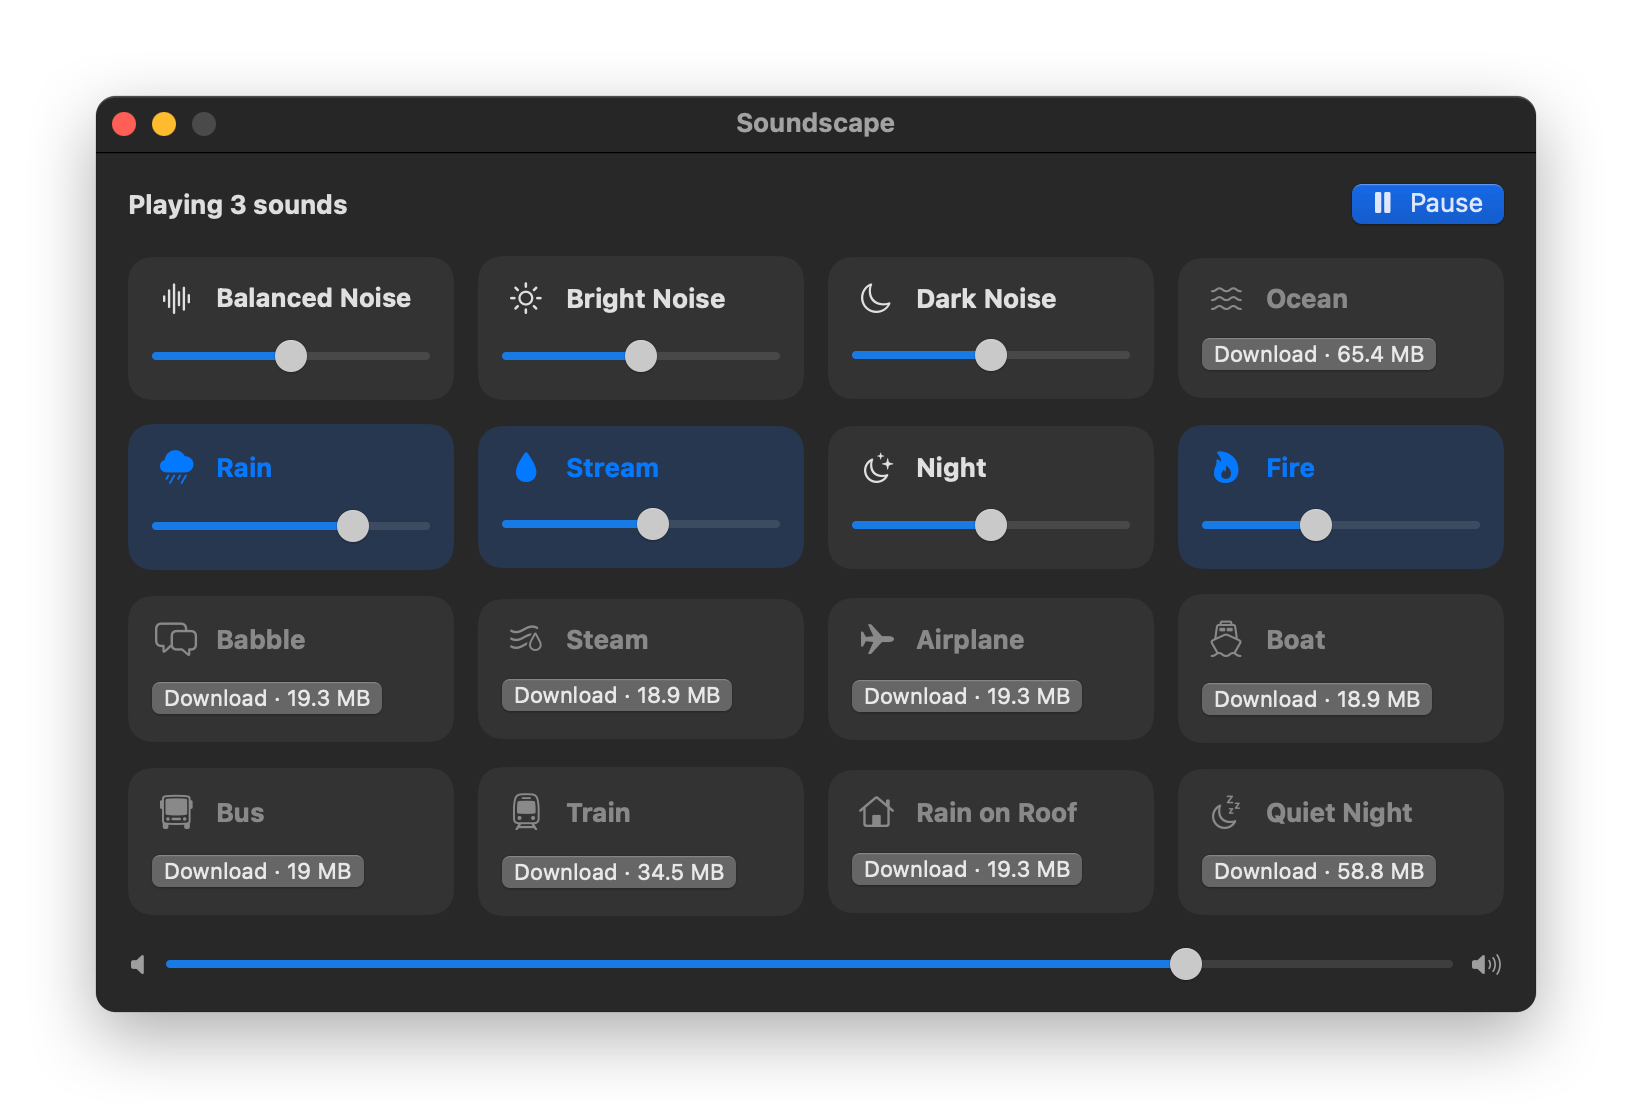
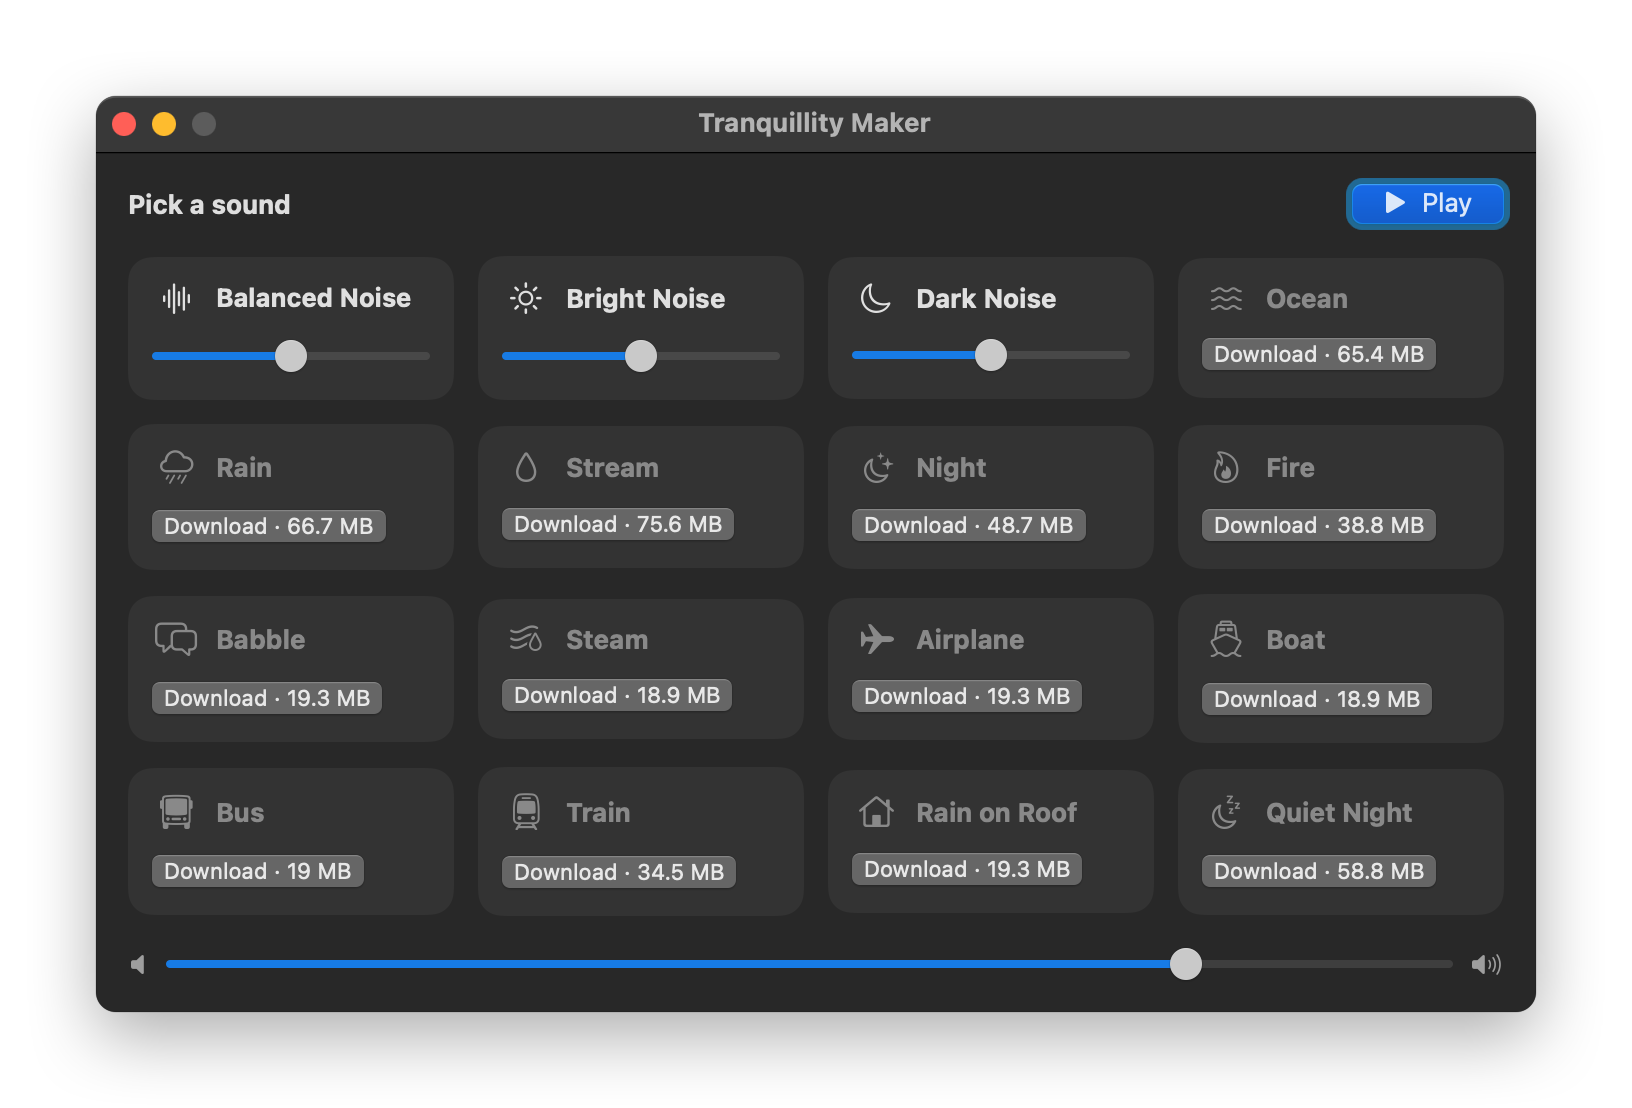
Rename the app to Tranquillity Maker

diff --git a/Soundscape/SoundscapeApp.swift b/Soundscape/SoundscapeApp.swift
@@ -5,11 +5,11 @@ struct SoundscapeApp: App {
   @State private var mixer = Mixer()
 
   init() {
-    AppUpdater.shared.start(repository: "flaviocopes/soundscape")
+    AppUpdater.shared.start(repository: "flaviocopes/tranquillity-maker")
   }
 
   var body: some Scene {
-    Window("Soundscape", id: "mixer") {
+    Window("Tranquillity Maker", id: "mixer") {
       MixerView()
         .frame(width: 720)
         .environment(mixer)
@@ -17,7 +17,7 @@ struct SoundscapeApp: App {
     .windowResizability(.contentSize)
     .commands {
       CommandGroup(replacing: .appInfo) {
-        Button("About Soundscape") {
+        Button("About Tranquillity Maker") {
           NSApp.orderFrontStandardAboutPanel(options: [.credits: credits])
         }
         Button("Check for Updates…") {
@@ -40,10 +40,10 @@ struct SoundscapeApp: App {
     paragraph.alignment = .center
     return NSAttributedString(
       string: """
-        Soundscape includes no audio. It plays the Background Sounds that come with macOS. \
+        Tranquillity Maker includes no audio. It plays the Background Sounds that come with macOS. \
         They belong to Apple and are covered by the macOS Software License Agreement.
 
-        Soundscape isn't affiliated with Apple.
+        Tranquillity Maker isn't affiliated with Apple.
         """,
       attributes: [
         .font: NSFont.systemFont(ofSize: NSFont.smallSystemFontSize),

diff --git a/scripts/render-banner.swift b/scripts/render-banner.swift
@@ -7,7 +7,7 @@
 import AppKit
 import SwiftUI
 
-let name = "Soundscape"
+let name = "Tranquillity Maker"
 let tagline = "Mix the Background Sounds\nbuilt into your Mac."
 let chips = ["16 sounds", "Menu bar", "Gapless loops"]
 let size = CGSize(width: 1280, height: 560)
@@ -108,7 +108,7 @@ struct Banner: View {
           .frame(width: 132, height: 132)
           .shadow(color: .black.opacity(0.35), radius: 18, y: 10)
         Text(name)
-          .font(.system(size: 76, weight: .bold))
+          .font(.system(size: 42, weight: .bold))
           .tracking(-1.8)
           .foregroundStyle(.white)
           .padding(.top, 26)

diff --git a/scripts/screenshot.swift b/scripts/screenshot.swift
@@ -1,4 +1,4 @@
-// Captures the real Soundscape window for the README, in light and dark.
+// Captures the real Tranquillity Maker window for the README, in light and dark.
 // scripts/screenshot.sh compiles it with the app's sources, in place of SoundscapeApp.swift.
 
 import AppKit
@@ -22,7 +22,7 @@ enum Screenshot {
       backing: .buffered,
       defer: false
     )
-    window.title = "Soundscape"
+    window.title = "Tranquillity Maker"
     window.contentView = host
     window.center()
     _ = NotificationCenter.default.addObserver(forName: NSApplication.didFinishLaunchingNotification, object: nil, queue: .main) { _ in

diff --git a/Soundscape/Mixer.swift b/Soundscape/Mixer.swift
@@ -143,7 +143,7 @@ final class Mixer {
     let center = MPNowPlayingInfoCenter.default()
     center.nowPlayingInfo = [
       MPMediaItemPropertyTitle: mix.map(\.sound.name).formatted(.list(type: .and)),
-      MPMediaItemPropertyArtist: "Soundscape",
+      MPMediaItemPropertyArtist: "Tranquillity Maker",
       MPNowPlayingInfoPropertyIsLiveStream: true,
     ]
     center.playbackState = isPlaying ? .playing : .paused

diff --git a/SoundscapeTV/TVMixerView.swift b/SoundscapeTV/TVMixerView.swift
@@ -7,7 +7,7 @@ struct TVMixerView: View {
     VStack(alignment: .leading, spacing: 40) {
       HStack(alignment: .center) {
         VStack(alignment: .leading, spacing: 8) {
-          Text("Soundscape")
+          Text("Tranquillity Maker")
             .font(.title3.bold())
           HStack(spacing: 0) {
             Text(status)

diff --git a/Soundscape/MixerView.swift b/Soundscape/MixerView.swift
@@ -138,7 +138,7 @@ struct MenuBarContent: View {
           NSApp.activate()
         }
         Spacer()
-        Button("Quit Soundscape") {
+        Button("Quit Tranquillity Maker") {
           NSApp.terminate(nil)
         }
       }

diff --git a/SoundscapeiOS/SoundscapeiOSApp.swift b/SoundscapeiOS/SoundscapeiOSApp.swift
@@ -10,7 +10,7 @@ struct SoundscapeiOSApp: App {
         ScrollView {
           MixerView()
         }
-        .navigationTitle("Soundscape")
+        .navigationTitle("Tranquillity Maker")
       }
       .environment(mixer)
     }

diff --git a/README.md b/README.md
@@ -1,22 +1,22 @@
-<img src="docs/banner.png" alt="Soundscape, a mixer for the Background Sounds built into your Mac" />
+<img src="docs/banner.png" alt="Tranquillity Maker, a mixer for the Background Sounds built into your Mac" />
 
-Soundscape mixes the Background Sounds built into macOS. Turn on Rain, Fire and Night together, give each one its own volume, and control the mix from the menu bar. It runs on [iPhone and iPad](#iphone-and-ipad) too, and there's an experimental [Apple TV version](#apple-tv).
+Tranquillity Maker mixes the Background Sounds built into macOS. Turn on Rain, Fire and Night together, give each one its own volume, and control the mix from the menu bar. It runs on [iPhone and iPad](#iphone-and-ipad) too, and there's an experimental [Apple TV version](#apple-tv).
 
-Apple makes 16 of these sounds, from Balanced Noise to Rain on Roof, but macOS plays only one at a time. Soundscape plays as many as you want and loops each one without a gap.
+Apple makes 16 of these sounds, from Balanced Noise to Rain on Roof, but macOS plays only one at a time. Tranquillity Maker plays as many as you want and loops each one without a gap.
 
-Read the announcement and watch the 30-second demo on my blog: [I built Soundscape, a mixer for the Background Sounds on your Mac](https://flaviocopes.com/soundscape/).
+Read the announcement and watch the 30-second demo on my blog: [I built Tranquillity Maker, a mixer for the Background Sounds on your Mac](https://flaviocopes.com/tranquillity-maker/).
 
-[![Watch the 30-second Soundscape demo](docs/showreel-poster.jpg)](https://flaviocopes.com/soundscape/)
+[![Watch the 30-second Tranquillity Maker demo](docs/showreel-poster.jpg)](https://flaviocopes.com/tranquillity-maker/)
 
 ## Download
 
-Get `Soundscape-1.4.0.zip` from the [latest release](https://github.com/flaviocopes/soundscape/releases/latest), unzip it, and drag Soundscape to your Applications folder. It runs on macOS 15 Sequoia or later, on Apple silicon and Intel Macs.
+Get `Tranquillity Maker-1.5.0.zip` from the [latest release](https://github.com/flaviocopes/tranquillity-maker/releases/latest), unzip it, and drag Tranquillity Maker to your Applications folder. It runs on macOS 15 Sequoia or later, on Apple silicon and Intel Macs.
 
 ### Opening it the first time
 
-Soundscape is signed with my Apple Developer ID and notarized by Apple. The first time you open it, macOS asks if you're sure you want to open an app downloaded from the internet. Click **Open**.
+Tranquillity Maker is signed with my Apple Developer ID and notarized by Apple. The first time you open it, macOS asks if you're sure you want to open an app downloaded from the internet. Click **Open**.
 
-On a work laptop you might not be able to install apps in `/Applications`. You can keep Soundscape in the `Applications` folder inside your home folder instead.
+On a work laptop you might not be able to install apps in `/Applications`. You can keep Tranquillity Maker in the `Applications` folder inside your home folder instead.
 
 ## Features
 
@@ -26,7 +26,7 @@ On a work laptop you might not be able to install apps in `/Applications`. You c
 - Sounds fade in when you turn them on and fade out when you turn them off
 - The whole mixer in a menu bar panel, with an icon that fills in while something plays
 - **Play** brings back your last mix, and `Space` does the same while the window or the panel is open
-- The play/pause key on the keyboard pauses and resumes the mix from any app, as long as Soundscape is the app that played last
+- The play/pause key on the keyboard pauses and resumes the mix from any app, as long as Tranquillity Maker is the app that played last
 - Sounds your Mac doesn't have yet show their size and download from Apple with one click
 - Your mix and volumes are remembered between launches
 - Updates from inside the app: it checks GitHub once a day, and **Install and Relaunch** puts the new version in place
@@ -35,14 +35,14 @@ On a work laptop you might not be able to install apps in `/Applications`. You c
 
 <picture>
   <source media="(prefers-color-scheme: dark)" srcset="docs/screenshot-dark.png" />
-  <img src="docs/screenshot-light.png" alt="The Soundscape window playing Rain, Stream and Fire" />
+  <img src="docs/screenshot-light.png" alt="The Tranquillity Maker window with a separate volume for each sound" />
 </picture>
 
 ## iPhone and iPad
 
 The iPhone and iPad app has the same screen as the Mac window: tap a sound's name to turn it on, set its volume with its slider, and download the sounds you don't have yet with one tap. The mix keeps playing when you lock the screen, and the lock screen and Control Center show it with a play/pause button. A call or Siri pauses it, and **Play** brings it back.
 
-<img src="docs/screenshot-iphone.png" width="276" alt="Soundscape on an iPhone, with the sounds in two columns" />
+<img src="docs/screenshot-iphone.png" width="276" alt="Tranquillity Maker on an iPhone, with the sounds in two columns" />
 
 It isn't on the App Store, so you install it from Xcode:
 
@@ -63,7 +63,7 @@ It has the same 16 sounds and the same gapless crossfades as the Mac app:
 - The remote's play/pause button pauses and resumes the mix, in the app and from the home screen.
 - The mix keeps playing when you go back to the home screen or the screensaver starts.
 
-<img src="docs/screenshot-tv.png" alt="Soundscape on the Apple TV, with the 16 sounds in a grid" />
+<img src="docs/screenshot-tv.png" alt="Tranquillity Maker on the Apple TV, with the 16 sounds in a grid" />
 
 The Apple TV can't install apps from a zip, and the App Store doesn't take apps that play Apple's sounds. So you install it from Xcode on your own Apple TV, which takes a few minutes the first time:
 
@@ -76,7 +76,7 @@ It needs tvOS 18 or later and an Apple Developer account. With a paid account, t
 
 ## Where the sounds come from
 
-Soundscape doesn't include any audio. It plays the same files macOS uses for Background Sounds:
+Tranquillity Maker doesn't include any audio. It plays the same files macOS uses for Background Sounds:
 
 - Sounds your Mac already has play right away, from `/System/Library/AssetsV2/com_apple_MobileAsset_ComfortSoundsAssets`.
 - The others download from Apple's servers when you click **Download**, into `~/Library/Application Support/Soundscape/Sounds`. Delete that folder to remove them.
@@ -87,15 +87,15 @@ The files come straight from Apple to your device. They never go through a serve
 
 ## Privacy
 
-Soundscape goes online in three cases:
+Tranquillity Maker goes online in three cases:
 
 - At launch, it reads Apple's list of Background Sounds from `mesu.apple.com`, so the sounds added in newer macOS versions show up.
 - When you click **Download**, it downloads that sound from Apple.
-- Once a day, it asks GitHub whether there's a newer version of Soundscape. It downloads one only when you click **Install and Relaunch**.
+- Once a day, it asks GitHub whether there's a newer version of Tranquillity Maker. It downloads one only when you click **Install and Relaunch**.
 
 There are no accounts, and nothing about you or your mix leaves your Mac. The iPhone, iPad and Apple TV versions do the first two and never check for updates.
 
-To turn off the daily check, run this in Terminal. **Soundscape → Check for Updates…** still works.
+To turn off the daily check, run this in Terminal. **Tranquillity Maker → Check for Updates…** still works.
 
 ```bash
 defaults write com.flaviocopes.soundscape AppUpdaterAutomaticChecks -bool false
@@ -111,13 +111,9 @@ Open `Soundscape.xcodeproj` and press `⌘R`. To build the release zip from the 
 scripts/build-release.sh
 ```
 
-It builds a universal app in `build/release/Release/Soundscape.app` and zips it into `dist/`. With my Developer ID certificate in the keychain it signs and notarizes the app. Everywhere else it signs it ad hoc, so your copy is signed ad hoc. A copy you build yourself opens without a warning on your Mac.
+It builds a universal app in `build/release/Release/Tranquillity Maker.app` and zips it into `dist/`. With my Developer ID certificate in the keychain it signs and notarizes the app. Everywhere else it signs it ad hoc, so your copy is signed ad hoc. A copy you build yourself opens without a warning on your Mac.
 
-If you send it to another Mac, macOS says it "could not verify Soundscape is free of malware". Click **Done**, then go to **System Settings → Privacy & Security** and click **Open Anyway**, or remove the quarantine flag in Terminal:
-
-```sh
-xattr -dr com.apple.quarantine /Applications/Soundscape.app
-```
+If you send it to another Mac, macOS says it "could not verify Tranquillity Maker is free of malware". Click **Done**, then go to **System Settings → Privacy & Security** and click **Open Anyway**.
 
 ## Development
 
@@ -149,26 +145,26 @@ Working with an AI coding agent? Point it at [AGENTS.md](AGENTS.md). It has the 
 
 ## How it works
 
-Soundscape reads the catalog macOS uses for Background Sounds, a property list on Apple's servers with every sound and its download link. Each sound is between 1 and 20 audio files, each 1 to 2.5 minutes long.
+Tranquillity Maker reads the catalog macOS uses for Background Sounds, a property list on Apple's servers with every sound and its download link. Each sound is between 1 and 20 audio files, each 1 to 2.5 minutes long.
 
-Every sound gets two `AVAudioPlayerNode`s in one `AVAudioEngine`. Soundscape picks a random file, never the same one twice in a row when there's a choice, and queues it on the audio clock so it overlaps the previous one by 4 seconds with an equal-power crossfade. The next file is always queued before the current one ends, so a busy moment in the app can't cause a gap.
+Every sound gets two `AVAudioPlayerNode`s in one `AVAudioEngine`. Tranquillity Maker picks a random file, never the same one twice in a row when there's a choice, and queues it on the audio clock so it overlaps the previous one by 4 seconds with an equal-power crossfade. The next file is always queued before the current one ends, so a busy moment in the app can't cause a gap.
 
 ## Legal
 
-Soundscape is an independent project. It isn't affiliated with, endorsed by or sponsored by Apple.
+Tranquillity Maker is an independent project. It isn't affiliated with, endorsed by or sponsored by Apple.
 
-The Background Sounds belong to Apple. The repository, the source code and the release zip contain none of Apple's audio files. Soundscape plays the copies macOS installs, or downloads them from Apple's servers to your device, the same way macOS and iOS do. It doesn't host or redistribute them.
+The Background Sounds belong to Apple. The repository, the source code and the release zip contain none of Apple's audio files. Tranquillity Maker plays the copies macOS installs, or downloads them from Apple's servers to your device, the same way macOS and iOS do. It doesn't host or redistribute them.
 
 The sounds are part of macOS, iOS and iPadOS, so Apple's [software license agreements](https://www.apple.com/legal/sla/) for them cover the sounds, and using them within their terms is up to you. That means listening to them on a Mac, iPhone or iPad you own or control. Don't copy the files off it, share them, or put them in videos, podcasts, streams or other projects.
 
-iPhone and iPad come with these same Background Sounds, in **Settings → Accessibility → Audio & Visual → Background Sounds**, and Apple's catalog for iOS lists the same files as the one for macOS. So on those devices Soundscape plays sounds that are already part of iOS.
+iPhone and iPad come with these same Background Sounds, in **Settings → Accessibility → Audio & Visual → Background Sounds**, and Apple's catalog for iOS lists the same files as the one for macOS. So on those devices Tranquillity Maker plays sounds that are already part of iOS.
 
 The Apple TV version is an experiment. The sounds are the property of Apple Inc., and the licenses that cover them are written for Macs, iPhones and iPads. tvOS doesn't come with Background Sounds, so the Apple TV version downloads the macOS ones, and the license doesn't cover playing them on an Apple TV. Whether you build and use it is your call.
 
-Apple can change or remove the sounds, and the servers they download from, at any time. If that happens, downloads in Soundscape stop working.
+Apple can change or remove the sounds, and the servers they download from, at any time. If that happens, downloads in Tranquillity Maker stop working.
 
 Apple, Mac and macOS are trademarks of Apple Inc., registered in the U.S. and other countries and regions.
 
 ## License
 
-The [MIT license](LICENSE) covers Soundscape's source code only. It gives you no rights to Apple's sounds. Soundscape is provided as is, without warranty of any kind.
+The [MIT license](LICENSE) covers Tranquillity Maker's source code only. It gives you no rights to Apple's sounds. Tranquillity Maker is provided as is, without warranty of any kind.

diff --git a/AGENTS.md b/AGENTS.md
@@ -1,4 +1,4 @@
-# Soundscape
+# Tranquillity Maker
 
 A SwiftUI macOS app that mixes Apple's Background Sounds, with iPhone/iPad and Apple TV versions that share its audio engine. No dependencies, no tests yet.
 
@@ -18,8 +18,8 @@ A SwiftUI macOS app that mixes Apple's Background Sounds, with iPhone/iPad and A
 Requirements: macOS 15 or later, Xcode 26 (the `.icon` needs it).
 
 ```bash
-scripts/build-release.sh           # universal Release build, Developer ID sign + notarize when the cert is in the keychain, dist/Soundscape-<version>.zip
-open build/release/Release/Soundscape.app
+scripts/build-release.sh           # universal Release build, Developer ID sign + notarize when the cert is in the keychain, dist/Tranquillity Maker-<version>.zip
+open "build/release/Release/Tranquillity Maker.app"
 xcodegen generate                  # after editing project.yml
 swift scripts/render-icon.swift    # after editing the icon
 scripts/screenshot.sh              # docs/screenshot-light.png and -dark.png
@@ -30,7 +30,7 @@ The Apple TV app installs from the terminal once the Apple TV is paired in Xcode
 
 ```bash
 xcodebuild -project Soundscape.xcodeproj -scheme SoundscapeTV -destination 'id=<xctrace id>' -derivedDataPath build/tv-device -allowProvisioningUpdates build
-xcrun devicectl device install app --device <devicectl id> build/tv-device/Build/Products/Debug-appletvos/SoundscapeTV.app
+xcrun devicectl device install app --device <devicectl id> "build/tv-device/Build/Products/Debug-appletvos/Tranquillity Maker.app"
 xcrun devicectl device process launch --terminate-existing --device <devicectl id> com.flaviocopes.soundscape.tv
 ```
 
@@ -51,5 +51,5 @@ For a look without the device, boot a simulator headless with `xcrun simctl boot
 - Verify UI changes by building the app and opening it. `scripts/screenshot.sh` renders the real views without touching your saved mix.
 - Don't run `scripts/build-release.sh` just to test a change. It deletes `build/release`, where Flavio's copy runs from, and overwrites the `dist/` zip of the current release, whose checksum is published. Build Debug into its own folder instead, and delete test copies when done. They share the bundle ID, so a leftover copy can make macOS show a stale icon. For a release, quit the running copy before the build and reopen it after.
 - Releases are signed with Flavio's Developer ID (team `DGFKNTAG99`) with the hardened runtime, and notarized inside `scripts/build-release.sh` when the certificate is in the keychain and a notarytool profile named `notary` is set up. CI and forks have no certificate, so the script signs ad-hoc there and skips notarization.
-- The 30-second demo video comes from the separate Remotion project `~/dev/soundscape-showreel`. It's not part of this repo. Its soundtrack uses synthesized stand-ins for the sounds, never Apple's audio.
-- The launch post is `src/posts/soundscape.md` in `~/www/flaviocopes.com`, live at flaviocopes.com/soundscape.
+- The 30-second demo video comes from the separate Remotion project `~/dev/tranquillity-maker-showreel`. It's not part of this repo. Its soundtrack uses synthesized stand-ins for the sounds, never Apple's audio.
+- The launch post is `src/posts/tranquillity-maker.md` in `~/www/flaviocopes.com`, live at flaviocopes.com/tranquillity-maker.
